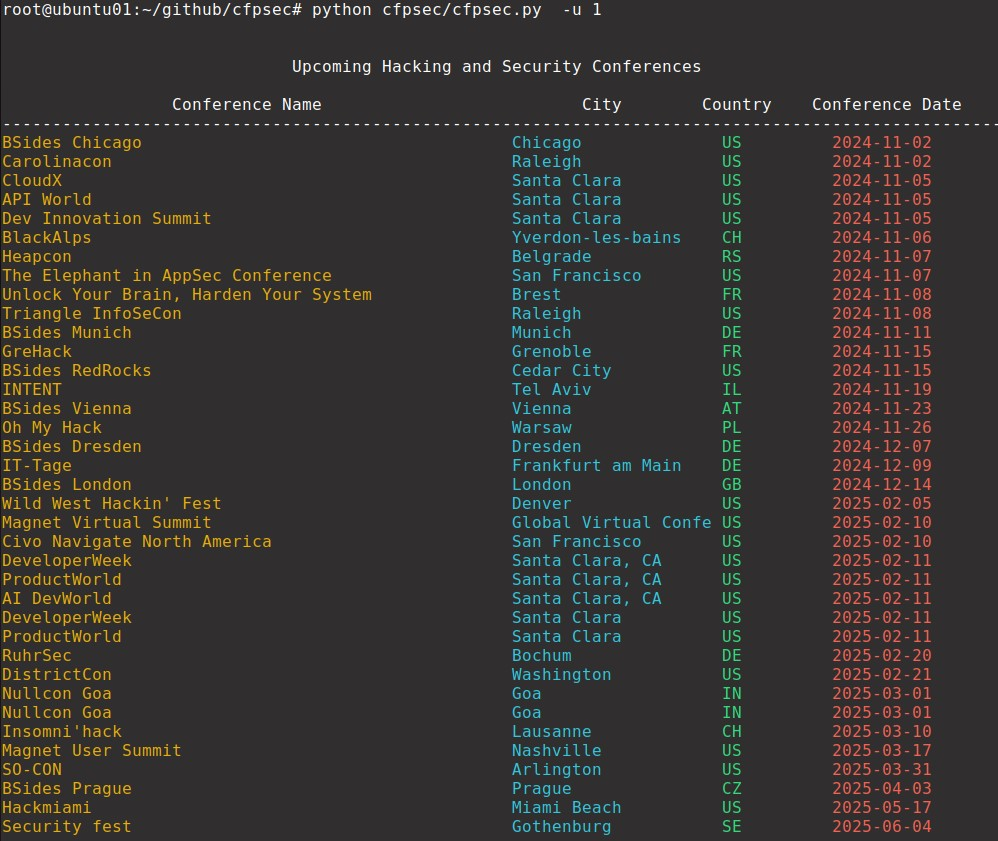
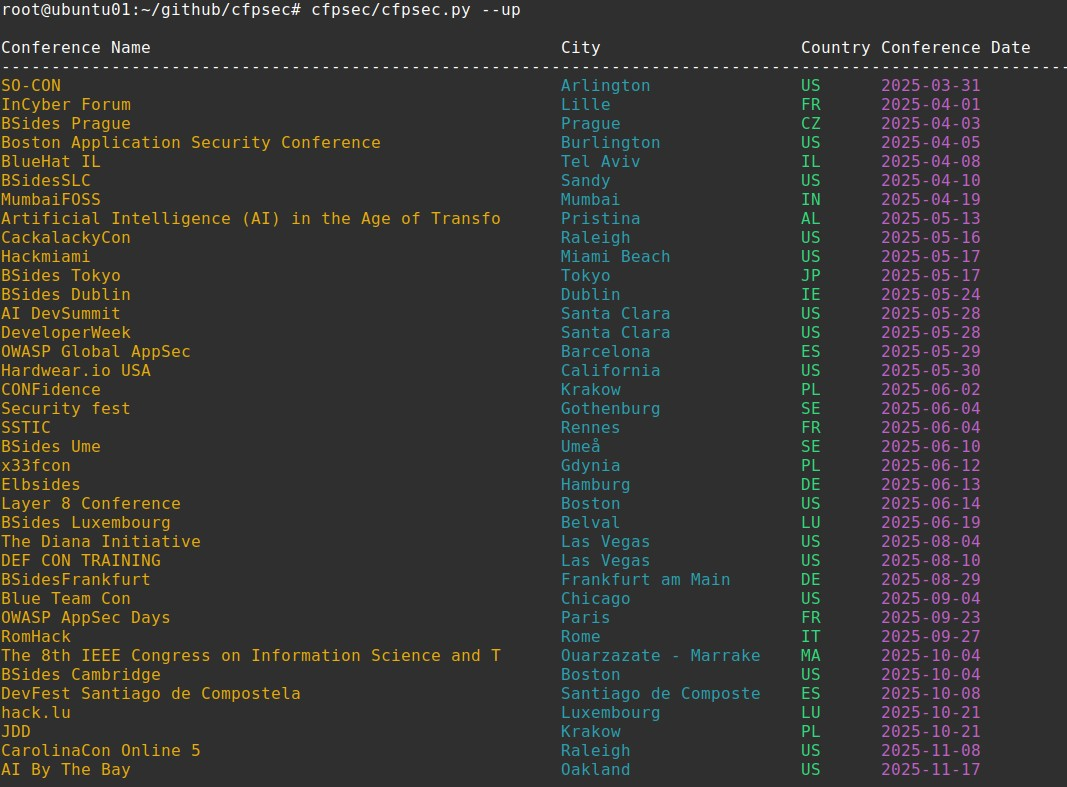
CFPsec

Changed region(s): [[0.0, 0.0, 0.9629, 1.0]]

diff --git a/cfpsec/cfpsec.py b/cfpsec/cfpsec.py
@@ -1,6 +1,6 @@
 #!/usr/bin/python
 
-# Copyright (C)  2024 Alexandre Borges <ab@blackstormsecurity.com>
+# Copyright (C)  2025 Alexandre Borges <reverseexploit@proton.me>
 #
 # This program is free software: you can redistribute it and/or modify
 # it under the terms of the GNU General Public License as published by
@@ -14,179 +14,116 @@
 #
 # See GNU Public License on <http://www.gnu.org/licenses/>.
 
-import os
 import sys
 import argparse
 import requests
 import json
-import time
-from colorama import init, Fore, Back, Style
-from datetime import datetime
+from colorama import init, Fore, Style
 
 __author__ = "Alexandre Borges"
-__copyright__ = "Copyright 2024, Alexandre Borges"
+__copyright__ = "Copyright 2025, Alexandre Borges"
 __license__ = "GNU General Public License v3.0"
-__version__ = "1.3"
+__version__ = "1.4"
 __email__ = "reverseexploit@proton.me"
 
-cfpurl = 'https://api.cfptime.org/api/cfps/'
-upurl = 'https://api.cfptime.org/api/upcoming/'
+# Constants
+CFP_URL = 'https://api.cfptime.org/api/cfps/'
+UPCOMING_URL = 'https://api.cfptime.org/api/upcoming/'
 
-class mycolors:
+# Colors
+COLORS = {
+    "black": Fore.BLACK,
+    "yellow": Fore.YELLOW,
+    "lightgreen": Fore.LIGHTGREEN_EX,
+    "pink": Fore.MAGENTA,
+    "lightcyan": Fore.CYAN,
+    "lightred": Fore.RED,
+    "lightblue": Fore.LIGHTBLUE_EX,
+    "lightmagenta": Fore.LIGHTMAGENTA_EX,
+    "lightyellow": Fore.LIGHTYELLOW_EX,
+    "reset": Style.RESET_ALL
+}
 
-    reset='\033[0m'
-    reverse='\033[07m'
-    bold='\033[01m'
-    class foreground:
-        orange='\033[33m'
-        blue='\033[34m'
-        purple='\033[35m'
-        lightgreen='\033[92m'
-        lightblue='\033[94m'
-        pink='\033[95m'
-        lightcyan='\033[96m'
-        red='\033[31m'
-        green='\033[32m'
-        cyan='\033[36m'
-        lightgrey='\033[37m'
-        darkgrey='\033[90m'
-        lightred='\033[91m'
-        yellow='\033[93m'
-    class background:
-        black='\033[40m'
-        blue='\033[44m'
-        cyan='\033[46m'
-        lightgrey='\033[47m'
-        purple='\033[45m'
-        green='\033[42m'
-        orange='\033[43m'
-        red='\033[41m'
-
-def cfplist(param):
-
-    cfptext = ''
-    response = ''
-
+def fetch_data(url):
+    """Fetch data from the given URL."""
     try:
+        response = requests.get(url)
+        response.raise_for_status()
+        return response.json()
+    except requests.RequestException as e:
+        print(COLORS["lightred"] + f"Error fetching data: {e}" + COLORS["reset"])
+        sys.exit(1)
 
-        session = requests.Session()
-        session.headers.update({'Content-Type': 'application/json'})
-        response = session.get(param)
-        cfptext = json.loads(response.text)
+def display_data(data, fields, headers):
+    """Display data in a formatted table with tabs between columns."""
+    print(COLORS["reset"] + "\n" + headers)
+    print(COLORS["reset"] + "-" * 140)
+    for item in data:
+        try:
+            row = "\t".join(
+                COLORS[field["color"]] + f"{item.get(field['key'], '')[:field['width']]:<{field['width']}}"
+                for field in fields
+            )
+            print(row + COLORS["reset"])
+        except KeyError:
+            continue
+    print(COLORS["reset"])
 
-        if (len(cfptext) > 0):
-           try:
-                for i in range(0, len(cfptext)):
-                   if (cfptext[i].get('name')):
-                       print((mycolors.foreground.yellow + "%-35s" % cfptext[i]['name'][:35]),end='')
-                       print((mycolors.foreground.lightgreen + " %s" % cfptext[i]['cfp_deadline'][:10]),end='')
-                       print((mycolors.foreground.pink + " %s" % cfptext[i]['conf_start_date'][:10]),end='')
-                       print((mycolors.foreground.lightgrey + " %-16s" % cfptext[i]['city'][:16]),end='')
-                       print((mycolors.foreground.lightcyan + " %-20s" % cfptext[i]['twitter'][:18]),end='')
-                       print((mycolors.foreground.lightred + "%s" % cfptext[i]['website']) + mycolors.reset)
-                       print(mycolors.reset, end="")
-           except KeyError as e:
-                pass
-        print(mycolors.reset)
-        exit(0)
-    
-    except (BrokenPipeError, IOError):
-        print(mycolors.reset, file=sys.stderr)
-        exit(1)
+def cfplist():
+    """List Call For Papers."""
+    data = fetch_data(CFP_URL)
+    fields = [
+        {"key": "name", "color": "lightyellow", "width": 35},
+        {"key": "cfp_deadline", "color": "lightgreen", "width": 12},
+        {"key": "conf_start_date", "color": "lightmagenta", "width": 10},
+        {"key": "city", "color": "lightcyan", "width": 16},
+        {"key": "twitter", "color": "lightcyan", "width": 18},
+        {"key": "website", "color": "lightgreen", "width": 38},
+    ]
+    headers = (
+        "Conference Name".ljust(35) + "\t" +
+        "CFP End".ljust(12) + "\t" +
+        "Conf Start".ljust(10) + "\t" +
+        "City".ljust(16) + "\t" +
+        "Twitter".ljust(18) + "\t" +
+        "Website".ljust(38)
+    )
+    display_data(data, fields, headers)
 
-    except ValueError as e:
+def uplist():
+    """List Upcoming Conferences."""
+    data = fetch_data(UPCOMING_URL)
+    fields = [
+        {"key": "name", "color": "lightyellow", "width": 50},
+        {"key": "city", "color": "lightcyan", "width": 20},
+        {"key": "country", "color": "lightgreen", "width": 7},
+        {"key": "conf_start_date", "color": "lightmagenta", "width": 10},
+    ]
+    headers = (
+        "Conference Name".ljust(50) + "\t" +
+        "City".ljust(20) + "\t" +
+        "Country".ljust(7) + "\t" +
+        "Conference Date".ljust(10)
+    )
+    display_data(data, fields, headers)
 
-        print((mycolors.foreground.lightred + "Error while connecting to CFPTIME.ORG!\n"))
-        print(mycolors.reset)
-        exit(1)
+def main():
+    """Main function."""
+    parser = argparse.ArgumentParser(
+        description="CFPsec lists Call For Papers or upcoming Hacking/Security Conferences based on cfptime.org website.",
+        usage="python cfpsec.py [--cfp] [--up]"
+    )
+    parser.add_argument('--cfp', action='store_true', help='List Call For Papers of Hacking/Security Conferences.')
+    parser.add_argument('--up', action='store_true', help='List all upcoming Hacking/Security Conferences.')
 
-
-def uplist(param):
-
-    uptext = ''
-    response = ''
-
-    try:
-
-        response = requests.get(param)
-        uptext = json.loads(response.text)
-
-        if (len(uptext) > 0):
-           try:
-                for i in range(0, len(uptext)):
-                   if (uptext[i].get('name')):
-                       print((mycolors.foreground.yellow + "%-50s" % uptext[i]['name'][:50]),end='')
-                       print((mycolors.foreground.lightcyan + " %-20s" % uptext[i]['city'][:20]),end='')
-                       print((mycolors.foreground.lightgreen + " %-7s" % uptext[i]['country']),end='')
-                       print((mycolors.foreground.lightred + 4*" " + "%s" % uptext[i]['conf_start_date'][:10]) + mycolors.reset )
-                       print(mycolors.reset, end="")
-           except KeyError as e:
-                pass
-        print(mycolors.reset)
-        exit(0)
-    
-    except (BrokenPipeError, IOError):
-        print(mycolors.reset, file=sys.stderr)
-        exit(1)
-
-if __name__ == "__main__":
-
-    cfp = 1
-    upcoming = 0
-    win = 0
-
-    parser = argparse.ArgumentParser(prog=None, description="CFPsec lists Call For Papers or upcoming Hacking/Security Conferences based on cfptime.org website. The current version is 1.3", usage= "python cfpsec.py -c <0|1> -u <0|1> -w <0|1>")
-    parser.add_argument('-c', '--cfp', dest='cfp',type=int, default=1, help='List Call For Papers of Hacking/Securiy Conferences.')
-    parser.add_argument('-u', '--upcoming', dest='upcoming',type=int, default=0, help='List all upcoming Hacking/Security Conferences.')
-    parser.add_argument('-w', '--win', dest='win',type=int, default=0, help='Set to 1 whether you are running it on Windows 10 or older.')
-    
     args = parser.parse_args()
 
-    cfpvalue = args.cfp
-    upvalue = args.upcoming
-    windows = args.win
-
-    optval = [0,1]
-
-    if (args.cfp) not in optval:
+    if args.cfp:
+        cfplist()
+    elif args.up:
+        uplist()
+    else:
         parser.print_help()
-        print(mycolors.reset)
-        exit(0)
 
-    if (args.upcoming) not in optval:
-        parser.print_help()
-        print(mycolors.reset)
-        exit(0)
-    
-    if (args.win) not in optval:
-        parser.print_help()
-        print(mycolors.reset)
-        exit(0)
-
-    if(windows == 1):
-        init(convert = True)
-
-    if(upvalue == 1):
-        cfpvalue = 0
-
-    if (cfpvalue):
-        print(mycolors.reset + "\n")
-        print("Call for Papers -- Hacking and Security Conferences\n".center(140))
-        print(mycolors.reset + "Conference Name".center(35) + "CFP end".center(12) + "CONF start".center(10) + "City".center(16) + "Twitter".center(18) + "Website".center(38), end='')
-        print(mycolors.reset + "\n" + 140 * '-')
-        cfplist(cfpurl)
-        print(mycolors.reset)
-        exit(0)
-
-    if (upvalue):
-        print(mycolors.reset + "\n")
-        print("Upcoming Hacking and Security Conferences\n".center(100))
-        print(mycolors.reset + "Conference Name".center(50) + "City".center(20) + "Country".center(7) + "Conference Date".center(24), end='')
-        print(mycolors.reset + "\n" + 100 * '-')
-        uplist(upurl)
-        print(mycolors.reset)
-        exit(0)
-
-
-    print(mycolors.reset)
-    exit(0)
+if __name__ == "__main__":
+    main()

diff --git a/setup.py b/setup.py
@@ -9,7 +9,7 @@ with open("README.md", encoding='utf8') as readme:
 
 setup(
     name="cfpsec",
-    version="1.3",
+    version="1.4",
     author="Alexandre Borges",
     author_email="reverseexploit@proton.me",
     license="GNU GPL v3.0",

diff --git a/README.md b/README.md
@@ -1,13 +1,13 @@
 # cfpsec
 CFPsec is program to list Call For Papers or upcoming Hacking/Security Conferences based on cfptime.org website.
 
-[<img alt="GitHub release (latest by date)" src="https://img.shields.io/github/v/release/alexandreborges/cfpsec?color=Red&style=for-the-badge">](https://github.com/alexandreborges/cfpsec/releases/tag/1.3) [<img alt="GitHub last commit" src="https://img.shields.io/github/last-commit/alexandreborges/cfpsec?color=Yellow&style=for-the-badge">](https://github.com/alexandreborges/cfpsec/releases) [<img alt="GitHub Release Date" src="https://img.shields.io/github/release-date/alexandreborges/cfpsec?label=Release%20Date&style=for-the-badge">](https://github.com/alexandreborges/cfpsec/releases) [<img alt="GitHub" src="https://img.shields.io/github/license/alexandreborges/cfpsec?style=for-the-badge">](https://github.com/alexandreborges/cfpsec/blob/master/LICENSE) 
+[<img alt="GitHub release (latest by date)" src="https://img.shields.io/github/v/release/alexandreborges/cfpsec?color=Red&style=for-the-badge">](https://github.com/alexandreborges/cfpsec/releases/tag/1.4) [<img alt="GitHub last commit" src="https://img.shields.io/github/last-commit/alexandreborges/cfpsec?color=Yellow&style=for-the-badge">](https://github.com/alexandreborges/cfpsec/releases) [<img alt="GitHub Release Date" src="https://img.shields.io/github/release-date/alexandreborges/cfpsec?label=Release%20Date&style=for-the-badge">](https://github.com/alexandreborges/cfpsec/releases) [<img alt="GitHub" src="https://img.shields.io/github/license/alexandreborges/cfpsec?style=for-the-badge">](https://github.com/alexandreborges/cfpsec/blob/master/LICENSE) 
 [<img alt="GitHub stars" src="https://img.shields.io/github/stars/alexandreborges/cfpsec?logoColor=Red&style=for-the-badge">](https://github.com/alexandreborges/cfpsec/stargazers) [<img alt="Twitter Follow" src="https://img.shields.io/twitter/follow/ale_sp_brazil?color=blueviolet&style=for-the-badge">](https://twitter.com/ale_sp_brazil)
 
 ![Alt text](pictures/picture_1.jpg?raw=true "Title")
 ![Alt text](pictures/picture_2.jpg?raw=true "Title")
 
-## Copyright (C)  2024 Alexandre Borges <alexandreborges at blackstormsecurity dot com>
+## Copyright (C)  2025 Alexandre Borges <reverseexploit@proton.me>
 
       This program is free software: you can redistribute it and/or modify
       it under the terms of the GNU General Public License as published by
@@ -21,10 +21,10 @@ CFPsec is program to list Call For Papers or upcoming Hacking/Security Conferenc
 
       See GNU Public License on <http://www.gnu.org/licenses/>.
       
-## Current Version: 1.3
+## Current Version: 1.4
  
- CFPsec has been tested on Ubuntu and Windows 11. Likely, it also works on other 
- operating systems. Before using CFPsec, execute:
+CFPsec has been tested on Ubuntu and Windows 11. Likely, it also works on other 
+operating systems. Before using CFPsec, execute:
 
         $ Install Python 3.9 or newer.
         $ pip install cfpsec
@@ -33,19 +33,26 @@ CFPsec is program to list Call For Papers or upcoming Hacking/Security Conferenc
 
 To use the CFPsec, execute the command as shown below:
 
-      # cfpsec.py -c 1 
-      # cfpsec.py -u 1 
+      # cfpsec.py --cfp
+      # cfpsec.py --up
 
-      usage: usage: python cfpsec.py -c <0|1> -u <0|1> -w <0|1>
-      
-      Optional arguments:
-      
-      -h, --help            show this help message and exit
-      -c CFP, --cfp CFP     List Call For Papers of Hacking/Securiy Conferences.
-      -u UPCOMING, --upcoming UPCOMING List all upcoming Hacking/Security Conferences.
-      -w WIN, --win WIN     Set to 1 whether you are running it on Windows 10 or older.
+      usage: python cfpsec.py [--cfp] [--up]
+
+      CFPsec lists Call For Papers or upcoming Hacking/Security Conferences based on cfptime.org website.
+
+      options:
+      -h, --help  show this help message and exit
+      --cfp       List Call For Papers of Hacking/Security Conferences.
+      --up        List all upcoming Hacking/Security Conferences.
  
 ## HISTORY
+
+
+Version 1.4:
+
+      This version:
+      
+            * Presents a full refactoring of the code. 
 
 Version 1.3:
 
